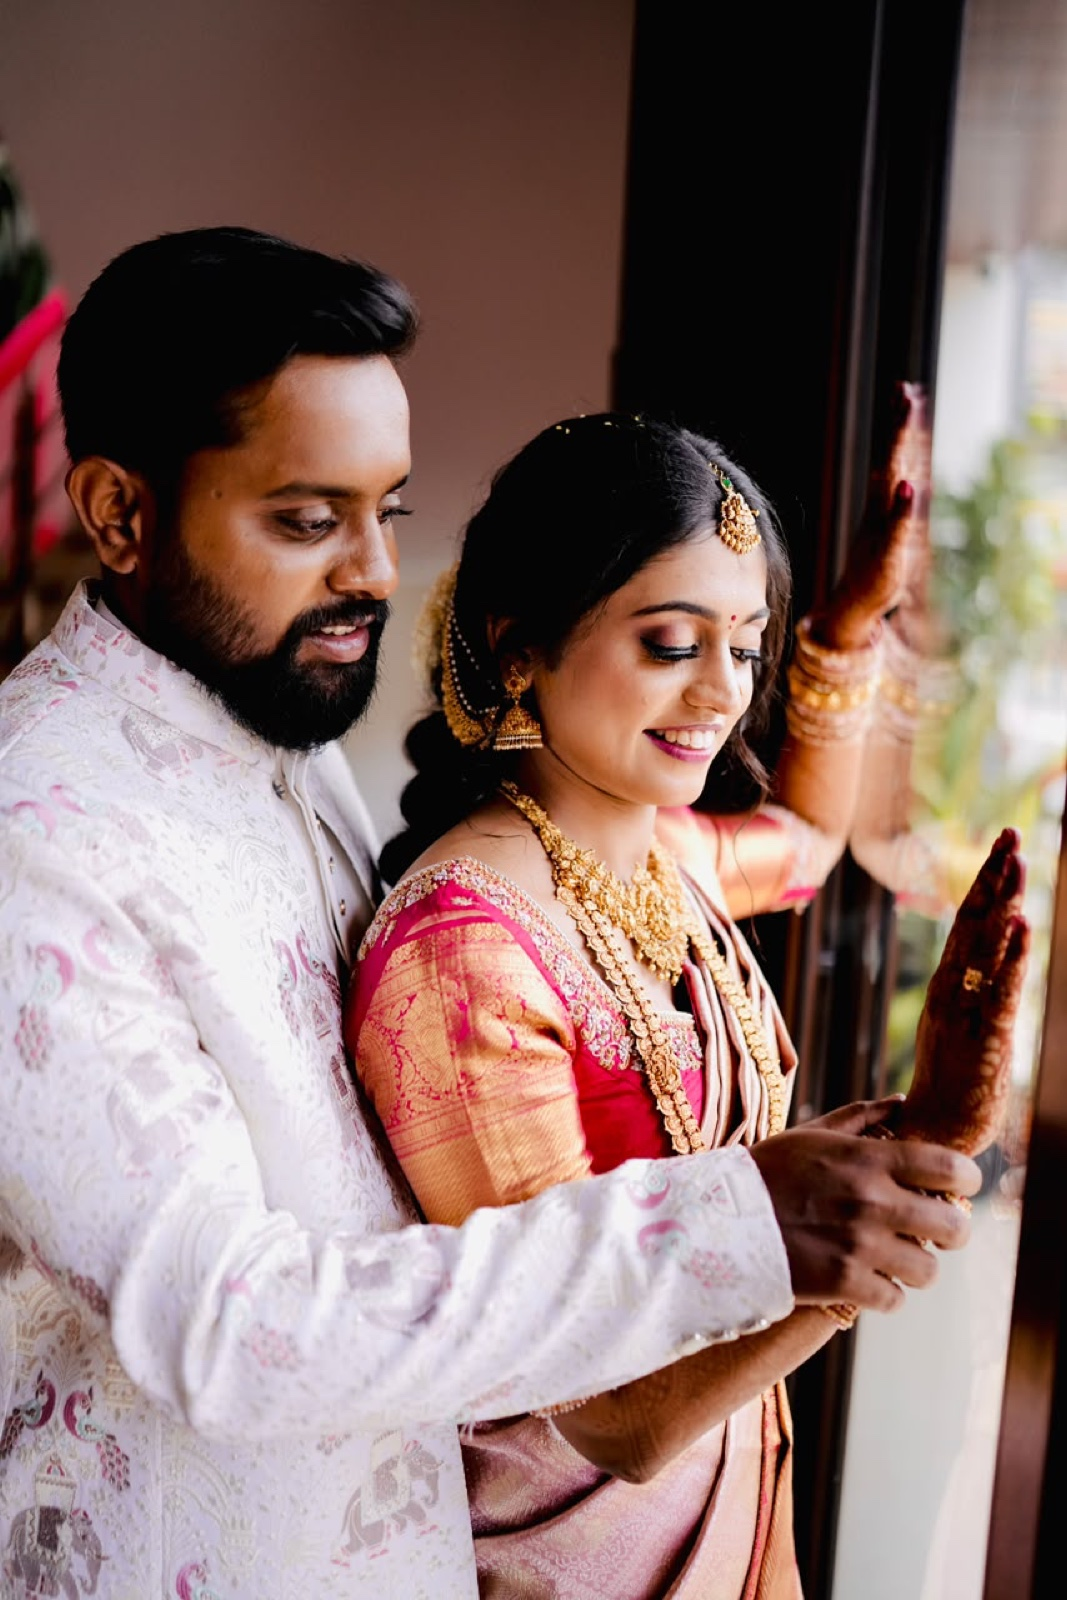
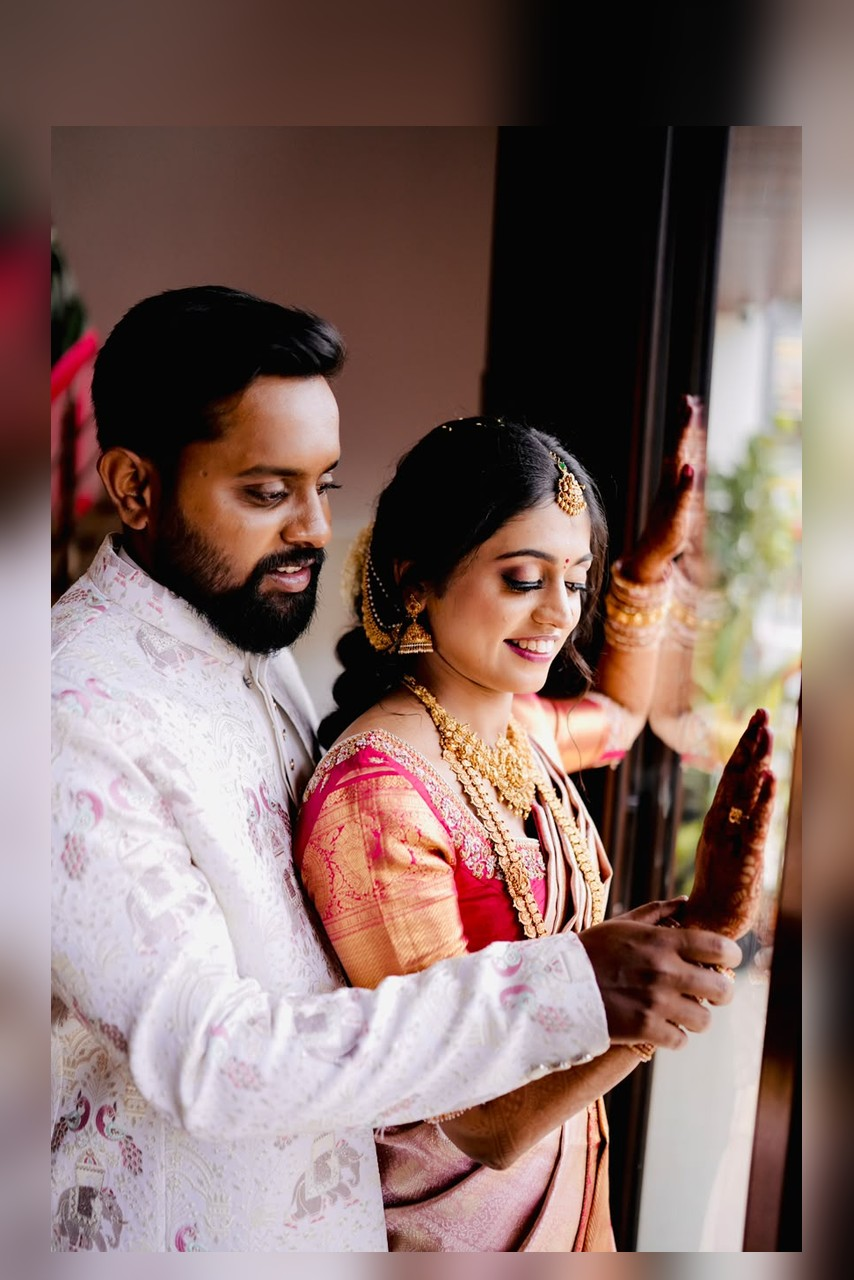
Complete wedding invitation site with Gallery Correction

diff --git a/harsha-harshitha-invite/app/page.tsx b/harsha-harshitha-invite/app/page.tsx
@@ -797,26 +797,32 @@ export default function Home() {
     {
       src: "gallery-1.jpg",
       title: lang === "kn" ? "ಕೈಜೋಡಿಸಿ ಜೊತೆಯಾಗಿ" : "Hand in Hand",
+      position: "object-center",
     },
     {
       src: "gallery-2.jpg",
       title: lang === "kn" ? "ಪ್ರೀತಿಯ ನೆಲೆವೀಡು" : "Where Love Resides",
+      position: "object-[center_15%]",
     },
     {
       src: "gallery-3.jpg",
       title: lang === "kn" ? "ಪ್ರಕೃತಿಯ ಮಡಿಲಲ್ಲಿ" : "Nature’s Embrace",
+      position: "object-[center_85%]",
     },
     {
       src: "gallery-4.jpg",
       title: lang === "kn" ? "ಜಲಪಾತದ ತೀರದಲ್ಲಿ" : "By the Cascading Waters",
+      position: "object-center",
     },
     {
       src: "gallery-5.jpg",
       title: lang === "kn" ? "ನಗುವಿನ ಮಧುರ ಕ್ಷಣಗಳು" : "Moments of Laughter",
+      position: "object-center",
     },
     {
       src: "gallery-6.jpg",
-      title: lang === "kn" ? "ಪ್ರತಿ ಹೆಜ್ಜೆಯಲ್ಲೂ ಜೊತೆಯಾಗಿ" : "Together in Every Step",
+      title: lang === "kn" ? "ಹೊಸ ಜೀವನದ ಹೊಸ್ತಿಲಲ್ಲಿ" : "Stepping Into Tomorrow",
+      position: "object-center",
     },
   ];
 
@@ -894,23 +900,38 @@ export default function Home() {
       {/* ─── MAIN SCROLLABLE CONTENT ─── */}
       <main className="w-full">
         {/* ══════════════════════════════════════════════════
-            1. HERO / COVER LANDING SCREEN (Mobile Viewport Optimized)
+            1. HERO / COVER LANDING SCREEN (Mobile & Desktop Framing)
         ══════════════════════════════════════════════════ */}
         <section
           id="hero"
           className="relative h-[100dvh] min-h-[100dvh] w-full flex flex-col justify-between items-center text-center text-white px-4 sm:px-6 pt-16 sm:pt-20 pb-4 sm:pb-6 overflow-hidden"
         >
-          {/* Full-bleed Couple Painting Background - Preserves couple on mobile */}
+          {/* Responsive Background: Mobile Portrait (shows BOTH Harsha & Harshitha) vs Desktop Widescreen */}
           <div className="absolute inset-0 z-0">
-            <Image
-              src="/images/harsha-harshitha-widescreen.png"
-              alt="Harsha and Harshitha"
-              fill
-              priority
-              className="object-cover object-[center_28%] sm:object-center"
-            />
+            {/* Mobile Portrait (Width < 640px) */}
+            <div className="block sm:hidden absolute inset-0">
+              <Image
+                src="/images/harsha-harshitha-mobile.png"
+                alt="Harsha and Harshitha"
+                fill
+                priority
+                className="object-cover object-[center_32%]"
+              />
+            </div>
+
+            {/* Desktop / Tablet Widescreen (Width >= 640px) */}
+            <div className="hidden sm:block absolute inset-0">
+              <Image
+                src="/images/harsha-harshitha-widescreen.png"
+                alt="Harsha and Harshitha"
+                fill
+                priority
+                className="object-cover object-center"
+              />
+            </div>
+
             {/* Luminous & Clean Wedding Veil */}
-            <div className="absolute inset-0 bg-gradient-to-b from-black/55 via-transparent to-black/85" />
+            <div className="absolute inset-0 bg-gradient-to-b from-black/60 via-transparent to-black/85" />
             <div className="absolute inset-0 bg-[radial-gradient(ellipse_at_center,transparent_45%,rgba(0,0,0,0.55)_100%)]" />
 
             {/* Corner subtle ornamental borders */}
@@ -920,28 +941,40 @@ export default function Home() {
             <div className="absolute bottom-5 right-5 w-12 h-12 border-b-2 border-r-2 border-amber-300/40 rounded-br-xl hidden sm:block pointer-events-none" />
           </div>
 
-          {/* Top Tagline Badge */}
-          <div className="relative z-10 pt-1 flex flex-col items-center shrink-0">
-            <div className="inline-flex items-center gap-2 px-3.5 py-1 sm:px-4 sm:py-1.5 rounded-full bg-black/50 backdrop-blur-md border border-white/25 text-[11px] sm:text-xs md:text-sm tracking-widest uppercase text-amber-200 shadow-xl">
+          {/* Top Header Group: Tagline Badge & Romantic Quotes on Mobile */}
+          <div className="relative z-10 pt-1 flex flex-col items-center shrink-0 max-w-xl mx-auto">
+            <div className="inline-flex items-center gap-2 px-3.5 py-1 sm:px-4 sm:py-1.5 rounded-full bg-black/60 backdrop-blur-md border border-white/25 text-[11px] sm:text-xs md:text-sm tracking-widest uppercase text-amber-200 shadow-xl mb-1 sm:mb-0">
               <Sparkles size={13} className="text-amber-300" />
               <span>{t.hero.taglineBadge}</span>
             </div>
-          </div>
 
-          {/* CENTER: Quote Lines, Royal Wax Seal & Open Invitation Button - Perfectly Centered & Compact on Mobile */}
-          <div className="relative z-10 max-w-2xl mx-auto flex flex-col items-center text-center my-auto py-2 sm:py-4">
-            {/* Centered Romantic Quote Lines */}
-            <div className="space-y-1 mb-3 sm:mb-4 px-2">
-              <p className="font-script text-2xl sm:text-4xl md:text-5xl text-amber-50 font-normal tracking-wide max-w-2xl leading-relaxed drop-shadow-[0_2px_14px_rgba(0,0,0,0.95)]">
+            {/* Mobile Quote Lines placed cleanly at the top so couple portrait is unobstructed */}
+            <div className="block sm:hidden text-center px-4 mt-2 space-y-0.5">
+              <p className="font-script text-2xl text-amber-50 leading-tight drop-shadow-[0_2px_10px_rgba(0,0,0,0.95)]">
                 {t.hero.quote1}
               </p>
-              <p className="text-xs sm:text-sm md:text-base text-gray-100 font-light tracking-wider drop-shadow-[0_1px_8px_rgba(0,0,0,0.9)]">
+              <p className="text-[11px] text-gray-100 font-light tracking-wide drop-shadow-[0_1px_6px_rgba(0,0,0,0.9)]">
                 {t.hero.quote2}
               </p>
             </div>
+          </div>
 
-            {/* ROYAL WEDDING WAX SEAL (Custom Symbol) in the EXACT CENTER */}
-            <div className="my-2 sm:my-3 relative flex flex-col items-center">
+          {/* Desktop Center Quote Lines */}
+          <div className="hidden sm:block relative z-10 max-w-2xl mx-auto text-center my-auto py-4">
+            <div className="space-y-1.5 mb-4 px-2">
+              <p className="font-script text-4xl md:text-5xl text-amber-50 font-normal tracking-wide max-w-2xl leading-relaxed drop-shadow-[0_2px_14px_rgba(0,0,0,0.95)]">
+                {t.hero.quote1}
+              </p>
+              <p className="text-sm md:text-base text-gray-100 font-light tracking-wider drop-shadow-[0_1px_8px_rgba(0,0,0,0.9)]">
+                {t.hero.quote2}
+              </p>
+            </div>
+          </div>
+
+          {/* Bottom Action Area: Royal Wax Seal & Open Invitation Button */}
+          <div className="relative z-10 w-full max-w-md mx-auto flex flex-col items-center text-center pb-2 sm:pb-4 shrink-0">
+            {/* ROYAL WEDDING WAX SEAL (Custom Symbol) */}
+            <div className="mb-2 sm:mb-3 relative flex flex-col items-center">
               <button
                 type="button"
                 onClick={openInvitation}
@@ -951,20 +984,14 @@ export default function Home() {
                 {/* Outer Glow Halo */}
                 <div className="absolute -inset-2 rounded-full bg-gradient-to-r from-[#FCE08B] via-[#E2B755] to-[#D4AF37] opacity-30 blur-md group-hover:opacity-65 transition duration-500" />
 
-                {/* Compact Wax Seal Medallion */}
-                <div className="relative w-20 h-20 sm:w-26 sm:h-26 rounded-full bg-gradient-to-br from-[#3D1414]/95 via-[#230808]/95 to-[#120202]/95 backdrop-blur-md border-2 border-[#E2B755] shadow-[0_0_20px_rgba(226,183,85,0.4)] group-hover:shadow-[0_0_30px_rgba(226,183,85,0.7)] flex flex-col items-center justify-center p-1.5 sm:p-2 transition-all duration-300 transform group-hover:scale-105 active:scale-95">
-                  {/* Outer Dotted Ornamental Ring */}
+                {/* Wax Seal Medallion */}
+                <div className="relative w-18 h-18 sm:w-26 sm:h-26 rounded-full bg-gradient-to-br from-[#3D1414]/95 via-[#230808]/95 to-[#120202]/95 backdrop-blur-md border-2 border-[#E2B755] shadow-[0_0_20px_rgba(226,183,85,0.4)] group-hover:shadow-[0_0_30px_rgba(226,183,85,0.7)] flex flex-col items-center justify-center p-1.5 sm:p-2 transition-all duration-300 transform group-hover:scale-105 active:scale-95">
                   <div className="absolute inset-1.5 rounded-full border border-dashed border-[#FCE08B]/45 pointer-events-none" />
-                  {/* Inner Fine Ring */}
                   <div className="absolute inset-3 rounded-full border border-[#E2B755]/25 pointer-events-none" />
-
-                  {/* Top Tiny Sparkle */}
                   <div className="text-[#FCE08B] mb-0.5 opacity-85 group-hover:scale-110 transition-transform">
                     <Sparkles size={10} className="text-[#FCE08B]" />
                   </div>
-
-                  {/* Custom Wedding Monogram Symbol (Ultra Crisp Retina Quality) */}
-                  <div className="relative w-[48px] h-[38px] sm:w-[60px] sm:h-[46px] flex items-center justify-center">
+                  <div className="relative w-[44px] h-[34px] sm:w-[60px] sm:h-[46px] flex items-center justify-center">
                     <Image
                       src="/images/wedding-symbol.png"
                       alt="Wedding Monogram"
@@ -979,11 +1006,11 @@ export default function Home() {
             </div>
 
             {/* OPEN INVITATION BUTTON */}
-            <div className="mt-3 flex flex-col items-center gap-1.5">
+            <div className="flex flex-col items-center gap-1.5">
               <button
                 type="button"
                 onClick={openInvitation}
-                className="cursor-pointer group relative inline-flex items-center gap-2 px-6 py-2.5 sm:px-8 sm:py-3.5 rounded-full text-sm sm:text-base md:text-lg font-semibold text-[#250E0E] bg-gradient-to-r from-[#FCE08B] via-[#E2B755] to-[#D4AF37] hover:from-[#FFF2B8] hover:to-[#E2B755] shadow-[0_4px_25px_rgba(226,183,85,0.55)] hover:shadow-[0_6px_35px_rgba(226,183,85,0.85)] transform hover:-translate-y-0.5 active:translate-y-0 transition-all duration-300 border-2 border-amber-200"
+                className="cursor-pointer group relative inline-flex items-center gap-2 px-7 py-2.5 sm:px-8 sm:py-3.5 rounded-full text-sm sm:text-base md:text-lg font-semibold text-[#250E0E] bg-gradient-to-r from-[#FCE08B] via-[#E2B755] to-[#D4AF37] hover:from-[#FFF2B8] hover:to-[#E2B755] shadow-[0_4px_25px_rgba(226,183,85,0.55)] hover:shadow-[0_6px_35px_rgba(226,183,85,0.85)] transform hover:-translate-y-0.5 active:translate-y-0 transition-all duration-300 border-2 border-amber-200"
               >
                 <Heart
                   size={16}
@@ -1001,11 +1028,11 @@ export default function Home() {
                 <ChevronDown size={13} />
               </button>
             </div>
-          </div>
 
-          {/* Bottom City / Location tag */}
-          <div className="relative z-10 text-[11px] sm:text-xs text-gray-300/80 pb-1 shrink-0">
-            <span>{t.hero.city}</span>
+            {/* Bottom City / Location tag */}
+            <div className="text-[10px] sm:text-xs text-gray-300/80 pt-1">
+              <span>{t.hero.city}</span>
+            </div>
           </div>
         </section>
 
@@ -1356,20 +1383,8 @@ export default function Home() {
                 onClick={() => setSelectedPhoto(galleryImages[activeSlide].src)}
                 className="group relative bg-white/95 rounded-3xl p-3 sm:p-5 shadow-[0_20px_50px_rgba(201,147,43,0.18)] border-2 border-[#E2C799]/50 hover:border-[#D4AF37] transition-all duration-500 cursor-pointer overflow-hidden select-none"
               >
-                {/* Natural Photo Frame - Pure Fit With Zero Cropping */}
-                <div className="relative h-[380px] sm:h-[480px] md:h-[520px] w-full rounded-2xl overflow-hidden bg-[#180A0A] flex items-center justify-center border border-amber-900/10">
-                  {/* Ambient Soft Blurred Glow of Photo Behind */}
-                  <div className="absolute inset-0 scale-110 blur-2xl opacity-40 pointer-events-none">
-                    <Image
-                      key={`bg-${activeSlide}`}
-                      src={`/images/${galleryImages[activeSlide].src}`}
-                      alt=""
-                      fill
-                      className="object-cover"
-                    />
-                  </div>
-
-                  {/* Main Photo - 100% Fit to Frame with Zero Cropping */}
+                {/* Full-Frame Photo Container */}
+                <div className="relative aspect-[3/4] sm:aspect-[2/3] max-h-[580px] w-full rounded-2xl overflow-hidden bg-[#180A0A] flex items-center justify-center border border-amber-900/10 shadow-inner">
                   <Image
                     key={activeSlide}
                     src={`/images/${galleryImages[activeSlide].src}`}
@@ -1377,10 +1392,10 @@ export default function Home() {
                     fill
                     priority
                     sizes="(max-width: 768px) 100vw, 680px"
-                    className="object-contain object-center relative z-10 transition-all duration-500 drop-shadow-md"
+                    className={`object-cover ${galleryImages[activeSlide].position || "object-center"} w-full h-full transition-all duration-700 ease-out group-hover:scale-103`}
                   />
                   {/* Subtle ambient bottom gradient */}
-                  <div className="absolute inset-0 bg-gradient-to-t from-black/40 via-transparent to-transparent pointer-events-none z-10" />
+                  <div className="absolute inset-0 bg-gradient-to-t from-black/45 via-transparent to-transparent pointer-events-none" />
                 </div>
 
                 {/* Natural Caption & Counter */}
